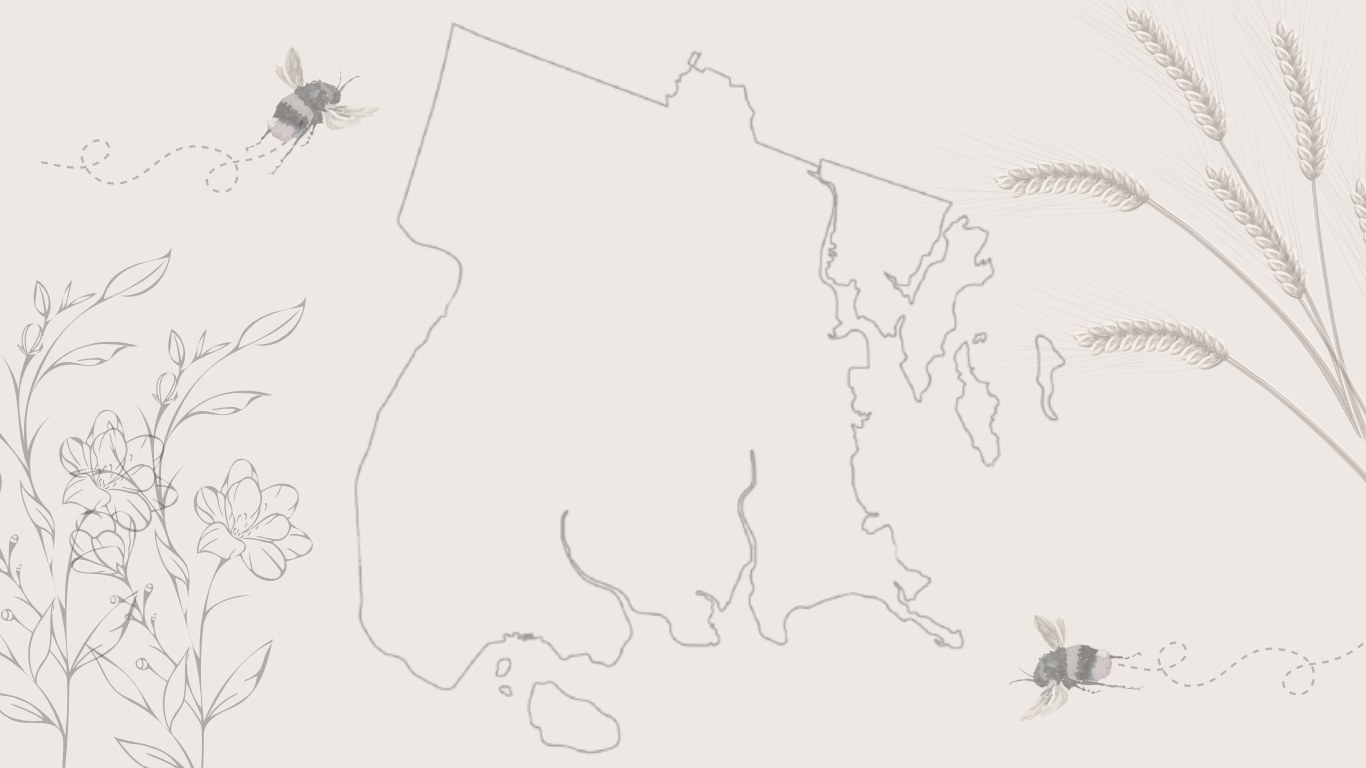
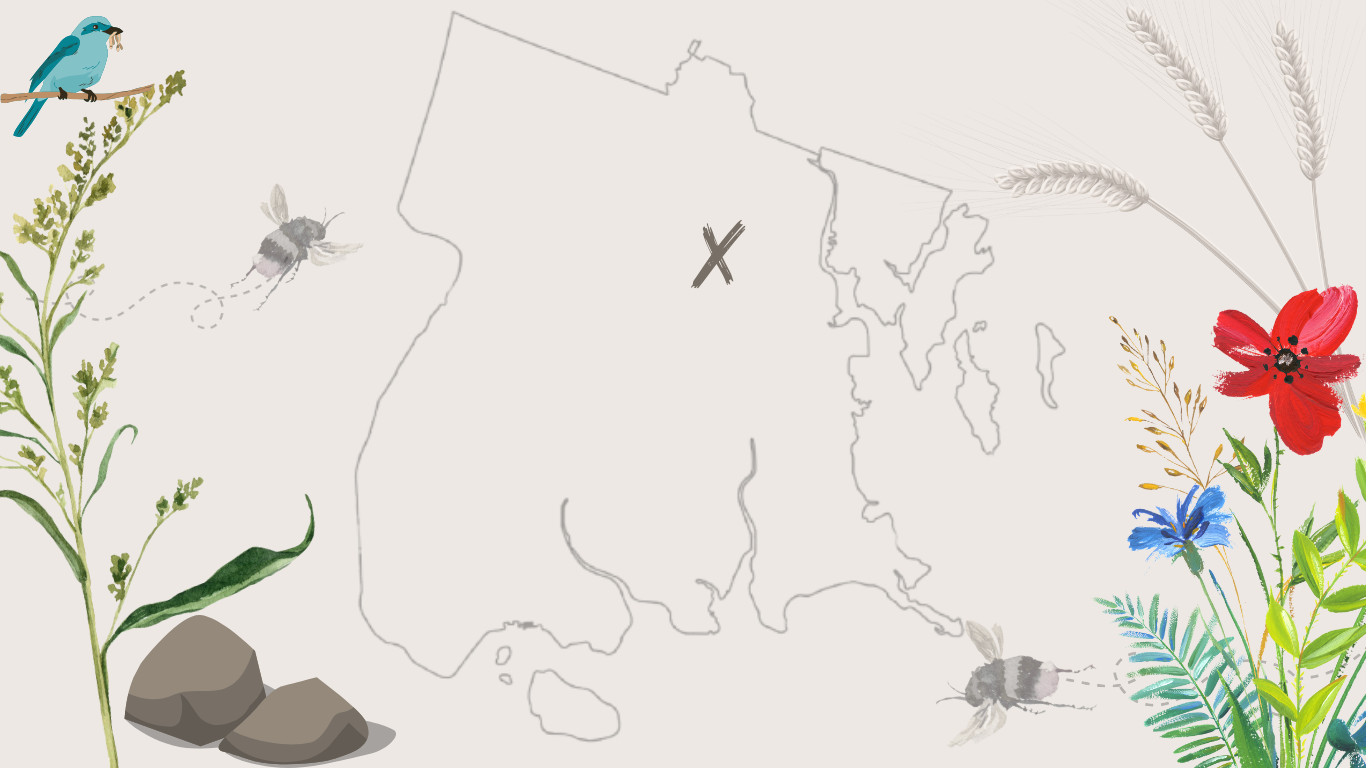
fix

diff --git a/src/Programs/Programs/MomProgram.tsx b/src/Programs/Programs/MomProgram.tsx
@@ -12,45 +12,50 @@ const MOM_PROGRAM_IMAGES = [
 
 export const MomProgram = () => {
   return (
-    <div className="w-full max-w-4xl mx-auto p-6">
-      <h2 className="text-2xl font-bold mb-4">Mom Program</h2>
-      <p className="mb-4">
-        Launched in Spring 2024, our Mom Program supports a cohort of 11 mothers
-        and their families with free bi-weekly harvest boxes that include
-        locally sourced fresh, organic produce and freezer-friendly cooked
-        meals, also prepared with the local, organic produce. The goal of this
-        project is to upend welfare logic by serving and honoring those on whom
-        the responsibility of raising our youth disproportionately falls. This
-        program acknowledges the challenges and near impossibility of raising
-        healthy children in the Bronx due to societal structures and is shaped
-        through careful listening to the participants. In addition to the food
-        distributions, which increase capacity for the moms to participate in
-        the program, we intentionally gather and offer workshops, activities,
-        and field trips which introduce the moms to supportive resources,
-        nourishing experiences, and avenues to build self-determination and
-        community resilience, including the mutual aid farms which supply the
-        produce they receive. Rooted in our belief that food sovereignty is the
-        necessary foundation to liberatory world-building, the program aims to
-        create an intimate food system, rather than a disconnected one, where
-        farmers are in relationship with their consumers and the program
-        participants have a direct influence on food-growing processes and are
-        knowledgeable about where their food comes from. In addition to the
-        moms, our holistic family approach integrates the children in all
-        aspects, including incorporating their preferences into the harvest
-        boxes and creating learning experiences unique to them (see Youth
-        Education). We hope to foster an awe and curiosity for nature and
-        farming that can be cultivated into an investment in the health of their
-        communities. Program partners include Iridescent Earth Collective, Serra
-        Vida Farm, Trinity Farm, Rise and Root Farm, Bronx Green-Up, and
-        Community Access Kitchen. We dream of sustainable funding to expand our
-        program calendar and visit even more growing spaces and natural areas to
-        expand the families’ imaginations of what is possible, namely, access to
-        land, as people from the Bronx strive for holistic, healthy lifestyles.
-      </p>
-
-      <ImageCarousel
-        images={MOM_PROGRAM_IMAGES.map((src) => `/mom-program/${src}`)}
-      />
+    <div className="flex flex-col">
+      <div className="w-full max-w-4xl mx-auto p-6">
+        <h2 className="text-2xl font-bold mb-4">Mom Program</h2>
+        <p className="mb-4">
+          Launched in Spring 2024, our Mom Program supports a cohort of 11
+          mothers and their families with free bi-weekly harvest boxes that
+          include locally sourced fresh, organic produce and freezer-friendly
+          cooked meals, also prepared with the local, organic produce. The goal
+          of this project is to upend welfare logic by serving and honoring
+          those on whom the responsibility of raising our youth
+          disproportionately falls. This program acknowledges the challenges and
+          near impossibility of raising healthy children in the Bronx due to
+          societal structures and is shaped through careful listening to the
+          participants. In addition to the food distributions, which increase
+          capacity for the moms to participate in the program, we intentionally
+          gather and offer workshops, activities, and field trips which
+          introduce the moms to supportive resources, nourishing experiences,
+          and avenues to build self-determination and community resilience,
+          including the mutual aid farms which supply the produce they receive.
+          Rooted in our belief that food sovereignty is the necessary foundation
+          to liberatory world-building, the program aims to create an intimate
+          food system, rather than a disconnected one, where farmers are in
+          relationship with their consumers and the program participants have a
+          direct influence on food-growing processes and are knowledgeable about
+          where their food comes from. In addition to the moms, our holistic
+          family approach integrates the children in all aspects, including
+          incorporating their preferences into the harvest boxes and creating
+          learning experiences unique to them (see Youth Education). We hope to
+          foster an awe and curiosity for nature and farming that can be
+          cultivated into an investment in the health of their communities.
+          Program partners include Iridescent Earth Collective, Serra Vida Farm,
+          Trinity Farm, Rise and Root Farm, Bronx Green-Up, and Community Access
+          Kitchen. We dream of sustainable funding to expand our program
+          calendar and visit even more growing spaces and natural areas to
+          expand the families’ imaginations of what is possible, namely, access
+          to land, as people from the Bronx strive for holistic, healthy
+          lifestyles.
+        </p>
+      </div>
+      <div className="relative w-screen overflow-hidden">
+        <ImageCarousel
+          images={MOM_PROGRAM_IMAGES.map((src) => `/mom-program/${src}`)}
+        />
+      </div>
     </div>
   );
 };

diff --git a/src/Programs/Programs/YouthEducation.tsx b/src/Programs/Programs/YouthEducation.tsx
@@ -17,41 +17,47 @@ const YOUTH_EDUCATION_IMAGES = [
 
 export const YouthEducation = () => {
   return (
-    <div className="w-full max-w-4xl mx-auto p-6">
-      <h2 className="text-2xl font-bold mb-4">Youth Education Program</h2>
-      <div className="mb-2 flex flex-col gap-4">
-        <span className="flex-col flex items-center">
-          <span className="italic text-center">
-            “In the end, we will conserve only what we love, we will love only
-            what what what we understand, we will understand only what we are
-            taught.”
+    <div className="flex flex-col">
+      <div className="w-full max-w-4xl mx-auto p-6">
+        <h2 className="text-2xl font-bold mb-4">Youth Education Program</h2>
+        <div className="mb-2 flex flex-col gap-4">
+          <span className="flex-col flex items-center">
+            <span className="italic text-center">
+              “In the end, we will conserve only what we love, we will love only
+              what what what we understand, we will understand only what we are
+              taught.”
+            </span>
+            - Baba Dioum
           </span>
-          - Baba Dioum
-        </span>
-        <span>
-          Aligned with our core mission to support young people’s learning
-          journeys, each growing season, we create educational opportunities
-          specific to the youth in our local community. Incorporating extensive
-          research about youth education in green spaces, including the BEETLES
-          method, our site-based and experimental curricula foster a deeper
-          connection between the youth and their communities by rooting in
-          scientific environmental studies about local ecosystems paired with
-          the social history of land and food struggles in the Bronx. Examples
-          of past learning activities include soil and water testing, seed
-          saving, zine-making, and touring the Hunts Point Food Distribution
-          Center. Looking toward the future, we are excited to further develop
-          learning goals by incorporating art making as a reflection tool with
-          the ultimate goal of co-creating an ethic of care and deepening
-          empathy for our planet and each other. Program partners include SYEP,
-          YouthWRAP, One World Middle School, and Bronx Better Learning Charter
-          School. For a better understanding of our socio-political framework,
-          please reference the foundation text, We are not softening our
-          resistance, edited by Alicia Grullon.
-        </span>
+          <span>
+            Aligned with our core mission to support young people’s learning
+            journeys, each growing season, we create educational opportunities
+            specific to the youth in our local community. Incorporating
+            extensive research about youth education in green spaces, including
+            the BEETLES method, our site-based and experimental curricula foster
+            a deeper connection between the youth and their communities by
+            rooting in scientific environmental studies about local ecosystems
+            paired with the social history of land and food struggles in the
+            Bronx. Examples of past learning activities include soil and water
+            testing, seed saving, zine-making, and touring the Hunts Point Food
+            Distribution Center. Looking toward the future, we are excited to
+            further develop learning goals by incorporating art making as a
+            reflection tool with the ultimate goal of co-creating an ethic of
+            care and deepening empathy for our planet and each other. Program
+            partners include SYEP, YouthWRAP, One World Middle School, and Bronx
+            Better Learning Charter School. For a better understanding of our
+            socio-political framework, please reference the foundation text, We
+            are not softening our resistance, edited by Alicia Grullon.
+          </span>
+        </div>
       </div>
-      <ImageCarousel
-        images={YOUTH_EDUCATION_IMAGES.map((src) => `/youth-education/${src}`)}
-      />
+      <div className="relative w-screen overflow-hidden">
+        <ImageCarousel
+          images={YOUTH_EDUCATION_IMAGES.map(
+            (src) => `/youth-education/${src}`,
+          )}
+        />
+      </div>
     </div>
   );
 };

diff --git a/src/Programs/Programs/Restoration.tsx b/src/Programs/Programs/Restoration.tsx
@@ -11,31 +11,37 @@ const RESTORATION_IMAGES = [
 
 export const Restoration = () => {
   return (
-    <div className="w-full max-w-4xl mx-auto p-6">
-      <h2 className="text-2xl font-bold mb-4">
-        Environmental Conservation and Restoration Program
-      </h2>
-      <p className="mb-2">
-        When we first began cleaning the lot that would become Ujamaa Garden,
-        elders in the community shared with us how our project is connected to
-        the vast Siwanoy Forest, which once covered the Wakefield neighborhood
-        but was rapidly deforested in the past 50 years. Centering this wisdom,
-        we shifted from an agricultural focus to an agroecological focus,
-        intending not only to grow food for our benefit but to care for the
-        natural habitat. As land stewards, we engage in hands-on and academic
-        research about effective conservation practices and best methods to
-        support the health of the ecosystem Ujamaa Garden is a part of. Through
-        prioritizing Black and Indigenous techniques, we have grown a native
-        pollinator garden, removed invasive species, identified trees and
-        assessed their health, and are currently conducting a soil experiment by
-        using phytoremediation and layering to readdress contaminated particles
-        in the native soil. Partners include the Seton Falls Park Preservation
-        Coalition, Cornell Cooperative Extension, Bronx Green-Up, and Xerces
-        Society.
-      </p>
-      <ImageCarousel
-        images={RESTORATION_IMAGES.map((src) => `/restoration/${src}`)}
-      />
+    <div className="flex flex-col">
+      <div className="w-full max-w-4xl mx-auto p-6">
+        <h2 className="text-2xl font-bold mb-4">
+          Environmental Conservation and Restoration Program
+        </h2>
+        <p className="mb-2">
+          When we first began cleaning the lot that would become Ujamaa Garden,
+          elders in the community shared with us how our project is connected to
+          the vast Siwanoy Forest, which once covered the Wakefield neighborhood
+          but was rapidly deforested in the past 50 years. Centering this
+          wisdom, we shifted from an agricultural focus to an agroecological
+          focus, intending not only to grow food for our benefit but to care for
+          the natural habitat. As land stewards, we engage in hands-on and
+          academic research about effective conservation practices and best
+          methods to support the health of the ecosystem Ujamaa Garden is a part
+          of. Through prioritizing Black and Indigenous techniques, we have
+          grown a native pollinator garden, removed invasive species, identified
+          trees and assessed their health, and are currently conducting a soil
+          experiment by using phytoremediation and layering to readdress
+          contaminated particles in the native soil. Partners include the Seton
+          Falls Park Preservation Coalition, Cornell Cooperative Extension,
+          Bronx Green-Up, and Xerces Society.
+        </p>
+      </div>
+      <div className="relative w-screen overflow-hidden">
+        <ImageCarousel
+          images={RESTORATION_IMAGES.map(
+            (src) => `/environmental-conservation/${src}`,
+          )}
+        />
+      </div>
     </div>
   );
 };

diff --git a/src/shared/Carousel.tsx b/src/shared/Carousel.tsx
@@ -1,18 +1,16 @@
 import { useEffect, useState } from "react";
 
-interface ImageCarouselProps {
-  images: string[]; // full image URLs or paths from public/
+interface CarouselProps {
+  images: string[];
 }
 
-export default function ImageCarousel({ images }: ImageCarouselProps) {
+export default function Carousel({ images }: CarouselProps) {
   const [index, setIndex] = useState(0);
 
-  // Auto slide
   useEffect(() => {
     const id = setInterval(() => {
       setIndex((i) => (i + 1) % images.length);
-    }, 3000);
-
+    }, 4000);
     return () => clearInterval(id);
   }, [images.length]);
 
@@ -21,49 +19,50 @@ export default function ImageCarousel({ images }: ImageCarouselProps) {
   const next = () => setIndex((i) => (i + 1) % images.length);
 
   return (
-    <div className="relative w-full max-w-3xl mx-auto overflow-hidden rounded-xl">
+    <div className=" bg-[#3a312a] h-[450px] md:h-[600px]">
       {/* Slides */}
       <div
-        className="flex transition-transform duration-500"
+        className="flex transition-transform duration-500 h-full"
         style={{ transform: `translateX(-${index * 100}%)` }}
       >
         {images.map((src, i) => (
-          <img
+          <div
             key={i}
-            src={src}
-            className="w-full h-80 object-cover flex-shrink-0"
-          />
+            className="w-full h-full flex items-center justify-center bg-[#3a312a] flex-shrink-0"
+          >
+            <img src={src} className="max-h-full max-w-full object-contain" />
+          </div>
         ))}
       </div>
 
-      {/* Left Button */}
+      {/* Left Arrow */}
       <button
         onClick={prev}
-        className="absolute left-3 top-1/2 -translate-y-1/2 bg-black/40 hover:bg-black/60 text-white p-2 rounded-full"
+        className="absolute left-3 top-1/2 -translate-y-1/2 bg-black/60 hover:bg-black/80 text-white p-3 rounded-full"
       >
         ❮
       </button>
 
-      {/* Right Button */}
+      {/* Right Arrow */}
       <button
         onClick={next}
-        className="absolute right-3 top-1/2 -translate-y-1/2 bg-black/40 hover:bg-black/60 text-white p-2 rounded-full"
+        className="absolute right-3 top-1/2 -translate-y-1/2 bg-black/60 hover:bg-black/80 text-white p-3 rounded-full"
       >
         ❯
       </button>
 
       {/* Dots */}
-      <div className="absolute bottom-4 left-0 right-0 flex justify-center gap-2">
+      {/* <div className="absolute bottom-5 left-0 right-0 flex justify-center gap-2">
         {images.map((_, i) => (
           <button
             key={i}
             onClick={() => setIndex(i)}
-            className={`h-2 w-2 rounded-full transition ${
-              index === i ? "bg-white" : "bg-gray-400"
+            className={`h-3 w-3 rounded-full transition ${
+              index === i ? "bg-white" : "bg-gray-500"
             }`}
           />
         ))}
-      </div>
+      </div> */}
     </div>
   );
 }

diff --git a/src/Events/TimelineCard.tsx b/src/Events/TimelineCard.tsx
@@ -10,6 +10,7 @@ type TimelineCardProps = {
 
 export const TimelineCard = ({ title, content, date }: TimelineCardProps) => {
   const [open, setOpen] = useState(false);
+  const [isHovered, setIsHovered] = useState(false);
 
   // If content HTML starts with an <img ...> tag, extract its src to display here.
   const extractFirstImageSrc = (html: string) => {
@@ -28,13 +29,20 @@ export const TimelineCard = ({ title, content, date }: TimelineCardProps) => {
   const dialogContent = removeFirstImageTag(content);
   return (
     <>
-      <button className="mt-4 p-1 rounded " onClick={() => setOpen(true)}>
-        <div className="w-[420px] max-w-[90%] bg-white p-1 rounded-xl shadow-md text-center">
+      <button
+        className={`mt-4 p-1 rounded transition-colors ${isHovered || open ? "bg-[#3a312a]" : ""}`}
+        onMouseEnter={() => {
+          setIsHovered(true);
+        }}
+        onMouseLeave={() => setIsHovered(false)}
+        onClick={() => setOpen(true)}
+      >
+        <div className="w-[375px] bg-white rounded-xl shadow-md text-center overflow-hidden">
           {firstImgSrc ? (
             <img
               src={firstImgSrc}
               alt={title}
-              className="w-full object-cover rounded-md "
+              className="w-full block object-cover rounded-md"
             />
           ) : (
             <>
